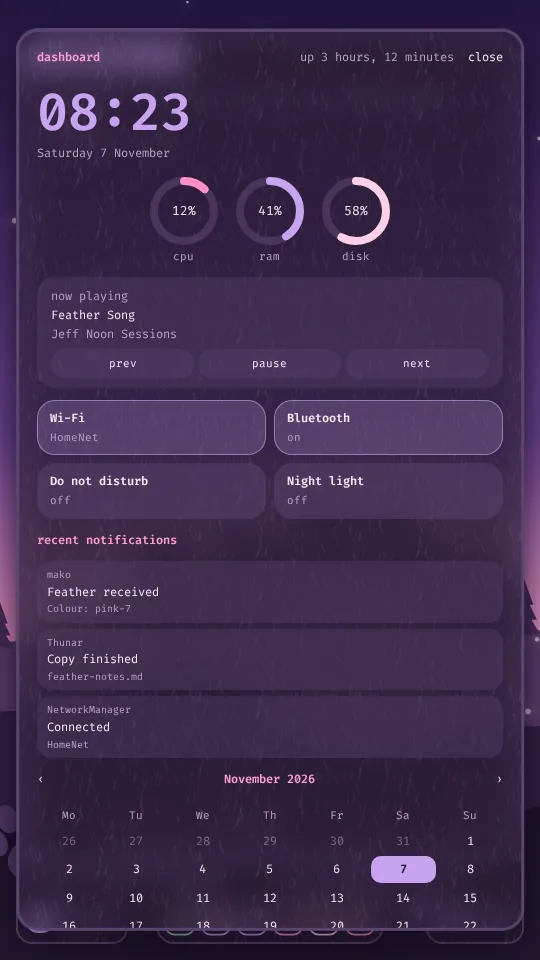
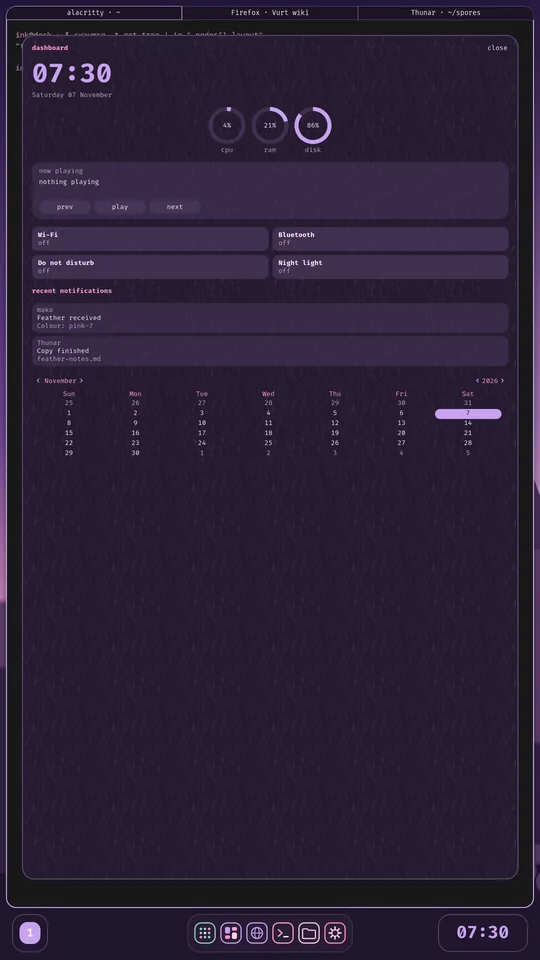
readme: screenshots taken from the real desktop
All eight screenshots are now captured from sway + eww running in a headless session (real bar, bottom strip with its
mini-dock and player, tabs, launcher, expose, dashboard, menus, portrait screen with workspaces, dock and clock),
instead of the design mock-up.

diff --git a/README.md b/README.md
@@ -4,6 +4,8 @@ A [Universal Blue](https://universal-blue.org/) image: [Bazzite](https://bazzite
 
 ![Desktop: tabbed windows, bar with a thorny branch, bottom strip, lilac wallpaper](docs/img/desktop.webp)
 
+The screenshots below are taken from the real desktop (sway + eww in a headless session), not from a mock-up.
+
 Everything lives in `build_files/`. The image is built by GitHub Actions and signed with cosign.
 
 ## What you get
